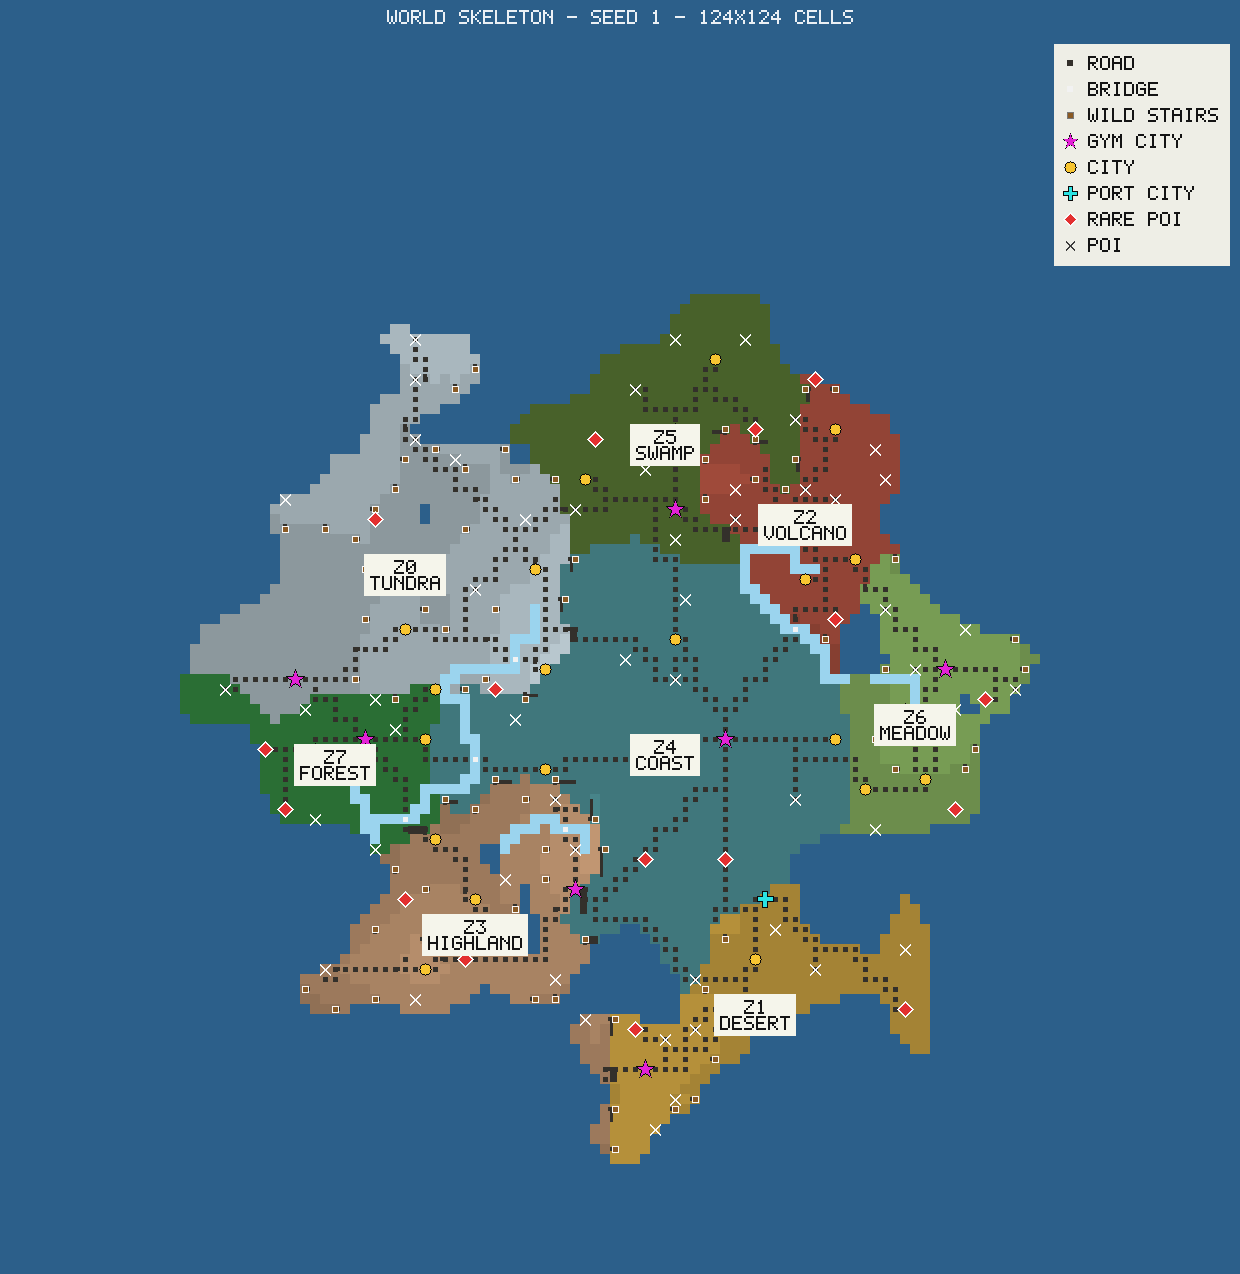
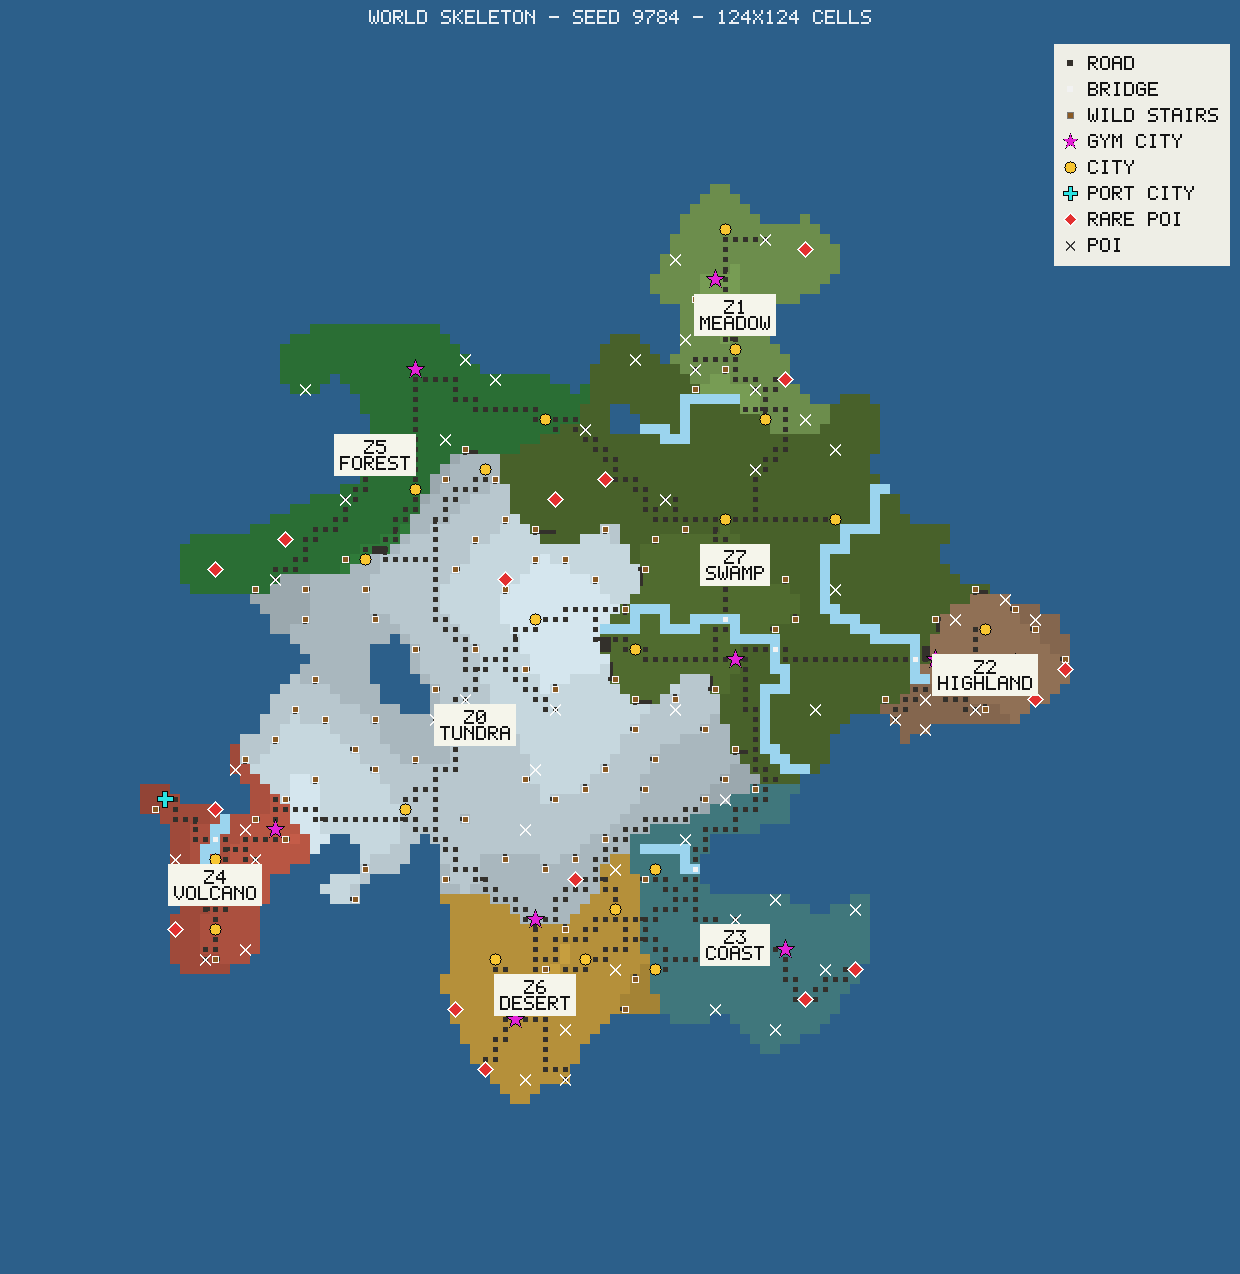
Add discarded lights tracking and update diagnostics in voxel lighting system

diff --git a/Playground/srcs/game_scene_widget.cpp b/Playground/srcs/game_scene_widget.cpp
@@ -59,6 +59,7 @@ namespace
 		DeltaTime,
 		TimeOfDay,
 		SelectedLights,
+		DiscardedLights,
 		RowCount
 	};
 
@@ -388,6 +389,7 @@ namespace pg
 		_overlay.setText(DeltaTime, 0, "Frame delta");
 		_overlay.setText(TimeOfDay, 0, "Time of day");
 		_overlay.setText(SelectedLights, 0, "Selected lights (D/P/S)");
+		_overlay.setText(DiscardedLights, 0, "Discarded lights (D/P/S)");
 
 		if (_profilerRowNames.empty() == true)
 		{
@@ -485,9 +487,18 @@ namespace pg
 			return;
 		}
 		_voxelLightRevision = _context.world.world->revision();
-		std::unordered_set<spk::Vector3Int> required;
+		std::unordered_set<spk::Vector3Int> loadedChunks;
 		spk::GameEngine &engine = gameEngine();
 		_context.world.world->map().forEachLoadedChunk([&](const spk::VoxelChunk &chunk) {
+			loadedChunks.insert(chunk.coordinates());
+			const auto known = _voxelLightChunkRevisions.find(chunk.coordinates());
+			if (known != _voxelLightChunkRevisions.end() && known->second == chunk.contentRevision()) return;
+			for (auto iterator = _voxelLightEntities.begin(); iterator != _voxelLightEntities.end();)
+			{
+				if (spk::VoxelChunk::coordinatesFromWorldCell(iterator->first) != chunk.coordinates()) { ++iterator; continue; }
+				engine.removeEntity(iterator->second.get());
+				iterator = _voxelLightEntities.erase(iterator);
+			}
 			const spk::VoxelGrid &grid = chunk.grid();
 			for (int y = 0; y < grid.size().y; ++y)
 			{
@@ -506,11 +517,6 @@ namespace pg
 							continue;
 						}
 						const spk::Vector3Int worldCell = chunk.worldOrigin() + spk::Vector3Int{x, y, z};
-						required.insert(worldCell);
-						if (_voxelLightEntities.contains(worldCell))
-						{
-							continue;
-						}
 						auto entity = std::make_unique<spk::Entity3D>();
 						entity->transform().setPosition(spk::Vector3(worldCell) + spk::Vector3{0.5f, 0.5f, 0.5f});
 						auto &light = entity->addComponent<spk::Light3D>();
@@ -539,16 +545,22 @@ namespace pg
 					}
 				}
 			}
+			_voxelLightChunkRevisions[chunk.coordinates()] = chunk.contentRevision();
 		});
-		for (auto iterator = _voxelLightEntities.begin(); iterator != _voxelLightEntities.end();)
+		for (auto iterator = _voxelLightChunkRevisions.begin(); iterator != _voxelLightChunkRevisions.end();)
 		{
-			if (required.contains(iterator->first))
+			if (loadedChunks.contains(iterator->first))
 			{
 				++iterator;
 				continue;
 			}
-			engine.removeEntity(iterator->second.get());
-			iterator = _voxelLightEntities.erase(iterator);
+			for (auto lights = _voxelLightEntities.begin(); lights != _voxelLightEntities.end();)
+			{
+				if (spk::VoxelChunk::coordinatesFromWorldCell(lights->first) != iterator->first) { ++lights; continue; }
+				engine.removeEntity(lights->second.get());
+				lights = _voxelLightEntities.erase(lights);
+			}
+			iterator = _voxelLightChunkRevisions.erase(iterator);
 		}
 	}
 
@@ -641,6 +653,7 @@ namespace pg
 		{
 			const spk::SceneLightingDiagnostics &diagnostics = _lighting->diagnostics();
 			_overlay.setText(SelectedLights, 1, std::to_string(diagnostics.selectedDirectional) + " / " + std::to_string(diagnostics.selectedPoint) + " / " + std::to_string(diagnostics.selectedSpot));
+			_overlay.setText(DiscardedLights, 1, std::to_string(diagnostics.discardedDirectional) + " / " + std::to_string(diagnostics.discardedPoint) + " / " + std::to_string(diagnostics.discardedSpot));
 		}
 
 		if (p_tick.profiler != nullptr)

diff --git a/Playground/tests/voxel_registry_test.cpp b/Playground/tests/voxel_registry_test.cpp
@@ -52,6 +52,21 @@ namespace
 		return pg::parseVoxelDefinition(reader, loadedShapes());
 	}
 
+TEST(VoxelLightingDefinition, ParsesPointLightWithSparkleColor)
+{
+	const pg::ParsedVoxel voxel = parseFromText(R"({
+        "version": 2, "traversal": "solid", "tags": [], "shape": "cube",
+        "light": { "type": "point", "color": "#3366CC80", "power": 8.0, "reach": 12.0 },
+        "textures": { "top": [0,0], "bottom": [0,0], "side": [0,0] }
+    })");
+	ASSERT_TRUE(voxel.light.has_value());
+	EXPECT_EQ(voxel.light->type, pg::VoxelLightType::Point);
+	EXPECT_FLOAT_EQ(voxel.light->color.r, 0x33 / 255.0f);
+	EXPECT_FLOAT_EQ(voxel.light->color.a, 0x80 / 255.0f);
+	EXPECT_FLOAT_EQ(voxel.light->power, 8.0f);
+	EXPECT_FLOAT_EQ(voxel.light->reach, 12.0f);
+}
+
 	// A scratch voxel directory for end-to-end load() tests.
 	class VoxelDirectory
 	{

diff --git a/srcs/structures/voxel/spk_voxel_chunk.cpp b/srcs/structures/voxel/spk_voxel_chunk.cpp
@@ -161,6 +161,7 @@ namespace spk
 		}
 
 		_renderer->requestSynchronization();
+		++_contentRevision;
 		if (_owner != nullptr)
 		{
 			_owner->_onChunkEdited(*this, p_editor._changedBoundaries);
@@ -195,6 +196,11 @@ namespace spk
 	const spk::VoxelGrid &VoxelChunk::grid() const noexcept
 	{
 		return _grid;
+	}
+
+	std::uint64_t VoxelChunk::contentRevision() const noexcept
+	{
+		return _contentRevision;
 	}
 
 	const spk::VoxelCell &VoxelChunk::cell(const spk::Vector3Int &p_localPosition) const

diff --git a/includes/structures/voxel/spk_voxel_chunk.hpp b/includes/structures/voxel/spk_voxel_chunk.hpp
@@ -81,6 +81,7 @@ namespace spk
 		// generation) and standalone tooling/tests can edit it before the update thread exists.
 		// VoxelMap binds this to the update thread once streaming begins (see bindMutationThread).
 		std::optional<std::thread::id> _mutationThread;
+		std::uint64_t _contentRevision = 1;
 
 		void _assertMutationThread() const;
 		void _commit(Editor &p_editor) noexcept;
@@ -107,6 +108,7 @@ namespace spk
 		[[nodiscard]] spk::Vector3Int localFromWorld(const spk::Vector3Int &p_worldCell) const noexcept;
 
 		[[nodiscard]] const spk::VoxelGrid &grid() const noexcept;
+		[[nodiscard]] std::uint64_t contentRevision() const noexcept;
 
 		// Binds cell mutation to p_thread: any later edit from another thread throws. This is
 		// how the "owning update thread" is established. A chunk starts unbound (no check);

diff --git a/tests/TUs/srcs/structures/voxel/voxel_chunk_streamer_test.cpp b/tests/TUs/srcs/structures/voxel/voxel_chunk_streamer_test.cpp
@@ -95,7 +95,7 @@ TEST(VoxelChunkStreamer, StreamsBakesAndRendersTheWindowInOneTick)
 	EXPECT_FALSE(builder.empty());
 	// The caller-owned target/viewport is preserved; each explicit pass receives
 	// required frame setup and the nine chunks remain one opaque contribution.
-	EXPECT_EQ(builder.size(), 15u);
+	EXPECT_EQ(builder.size(), 12u);
 }
 
 TEST(VoxelChunkStreamer, MovingTheOriginSlidesTheActiveWindow)

diff --git a/Playground/srcs/game_scene_widget.hpp b/Playground/srcs/game_scene_widget.hpp
@@ -94,6 +94,7 @@ namespace pg
 		spk::Entity3D _sunEntity;
 		spk::Light3D *_sun = nullptr;
 		std::unordered_map<spk::Vector3Int, std::unique_ptr<spk::Entity3D>> _voxelLightEntities;
+		std::unordered_map<spk::Vector3Int, std::uint64_t> _voxelLightChunkRevisions;
 		std::size_t _voxelLightRevision = std::numeric_limits<std::size_t>::max();
 		spk::DebugOverlay _overlay;
 